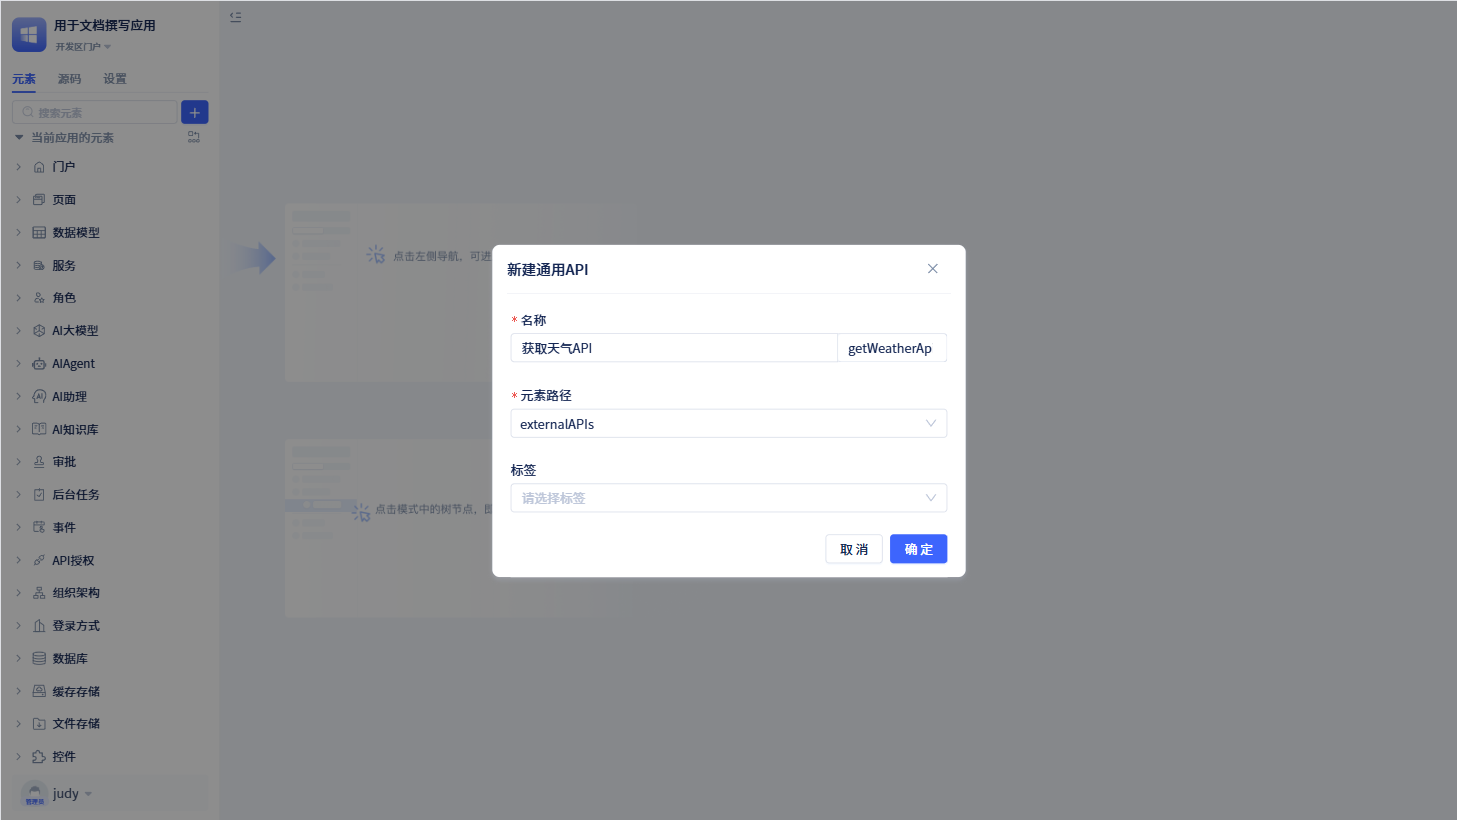
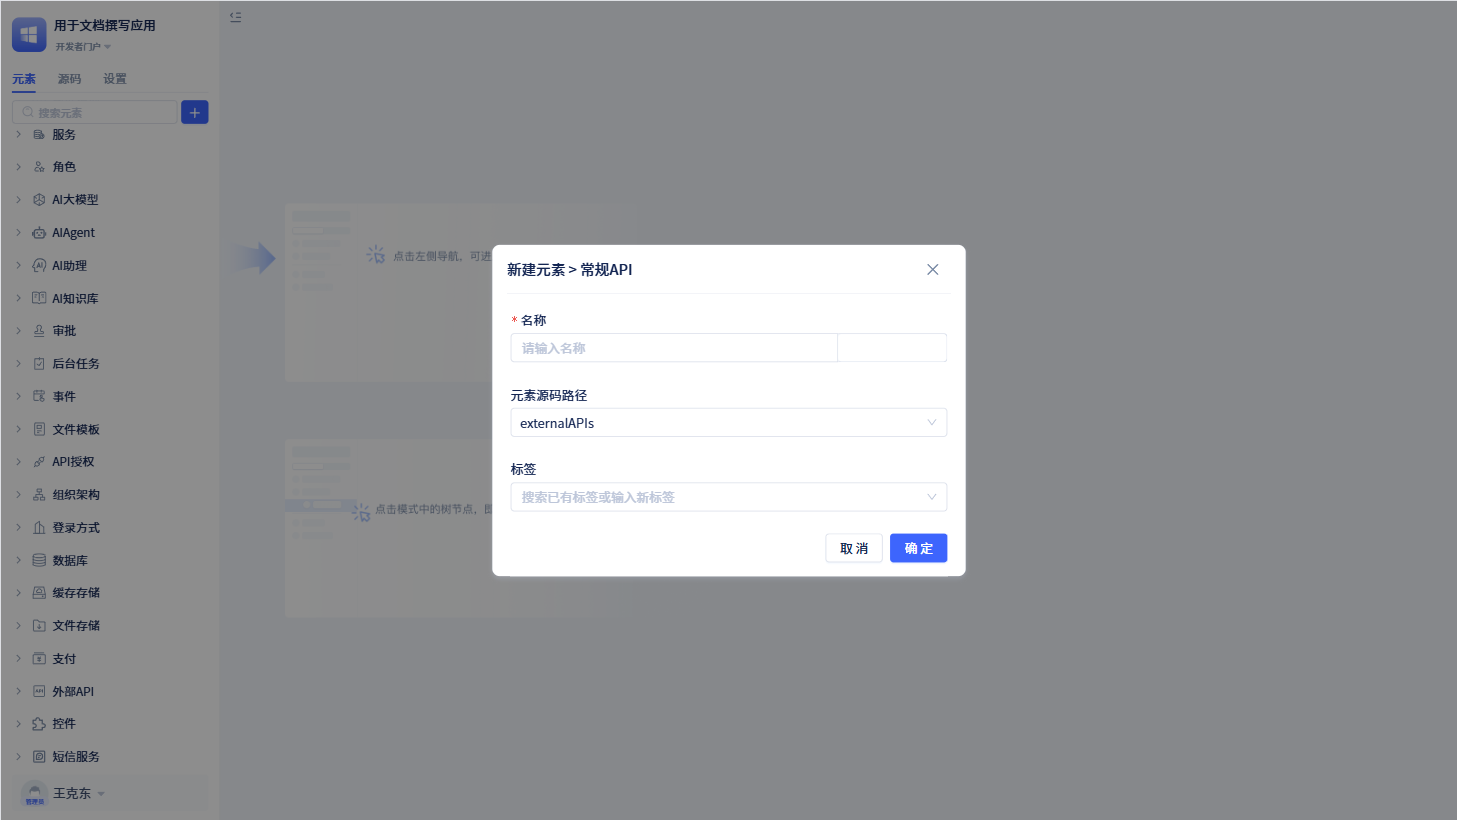
fix: 审批流程新增了是否开启审批预测功能及图片修改

diff --git a/docs/devguide/新手指南/在页面中使用功能组件/审批组件.md b/docs/devguide/新手指南/在页面中使用功能组件/审批组件.md
@@ -29,6 +29,8 @@ sidebar_position: 13
 
 发起申请组件所看到的审批流程记录，其实是根据所选的审批流程生成的审批流程预测数据。
 
+如果审批流程关闭了预测功能，那么发起申请组件将不会显示审批流程记录。
+
 :::
 
 ### 处理后/刷新后事件
@@ -78,6 +80,8 @@ sidebar_position: 13
 如果审批表单无需当前登录人审批，将显示“当前暂无审批待办事项”。
 
 如果取消勾选`显示审批流程`，那么无论是否勾选`保留历史审批记录`都不会出现审批流程记录。
+
+如果审批流程关闭了预测功能，那么审批处理组件仅显示已经流转的审批记录。
 
 :::
 

diff --git a/docs/devguide/新手指南/第三方集成/外部API.md b/docs/devguide/新手指南/第三方集成/外部API.md
@@ -10,7 +10,7 @@ sidebar_position: 1
 
 ![外部API创建](./img/1/api_2025-08-26_19-18-25.png)
 
-在左侧元素树上点击`+`会打开弹窗，将鼠标移动到“更多”中，会看到“外部 API”。点击“外部 API”里面的“通用 API”，就会打开通用 API 的新建弹窗页面。
+在左侧元素树上点击`+`会打开弹窗，将鼠标移动到“更多”中，会看到“外部 API”。点击“外部 API”里面的“常规 API”，就会打开常规 API 的新建弹窗页面。
 
 ![API弹窗](./img/1/api_2025-08-27_10-55-29.png)
 

diff --git a/docs/devguide/新手指南/在页面中使用功能组件/表单组件.md b/docs/devguide/新手指南/在页面中使用功能组件/表单组件.md
@@ -478,6 +478,12 @@ sidebar_position: 2
     ![审批记录](./img/2/form_2025-08-21_19-45-18.png)
 
     勾选后，若该数据表模型关联审批流程，在页面的右侧将会显示审批记录。
+    
+    :::tip 注意
+    默认情况下，审批记录会将[审批预测结果](../审批流程/审批流程基础配置.md#预测功能)一并显示
+
+    如果某个审批流程关闭了预测功能，则该流程将不会显示预测结果
+    :::
 
     ### 显示操作记录
 

diff --git a/docs/reference/开发框架/JitWorkflow/常规审批.md b/docs/reference/开发框架/JitWorkflow/常规审批.md
@@ -160,6 +160,8 @@ node_config = approval.getNode("ApproveNode1")
 | commentSwitch | Numeric | int | 否 | 评论开关，0关闭1开启 |
 | allowPrint | Numeric | int | 否 | 打印权限，0不允许1允许 |
 | syncStatus | JitDict | bool | 否 | 同步状态设置 |
+| allowShare | Numeric | int | 否 | 分享权限，0不允许1允许 |
+| showPredict | Numeric | int | 否 | 预测权限，0不显示1显示 |
 
 ### 业务配置文件配置
 
